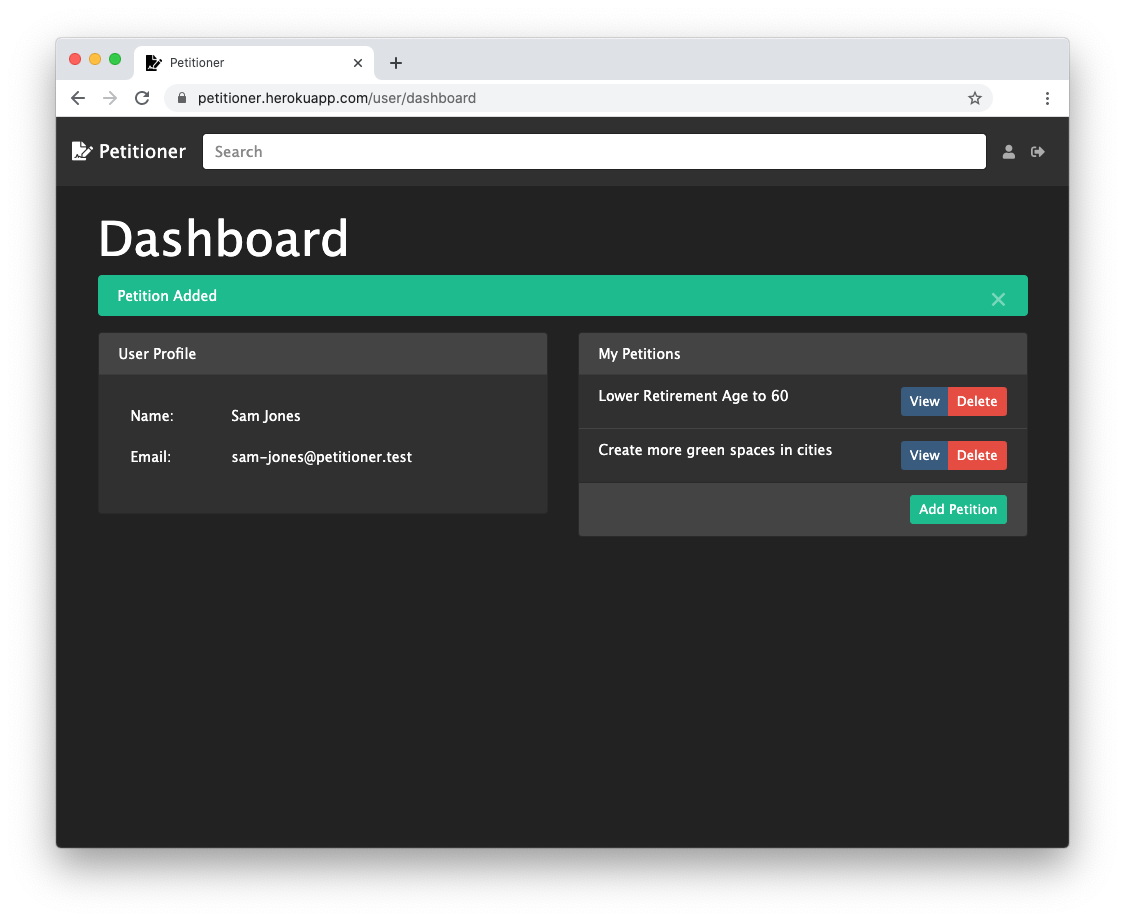
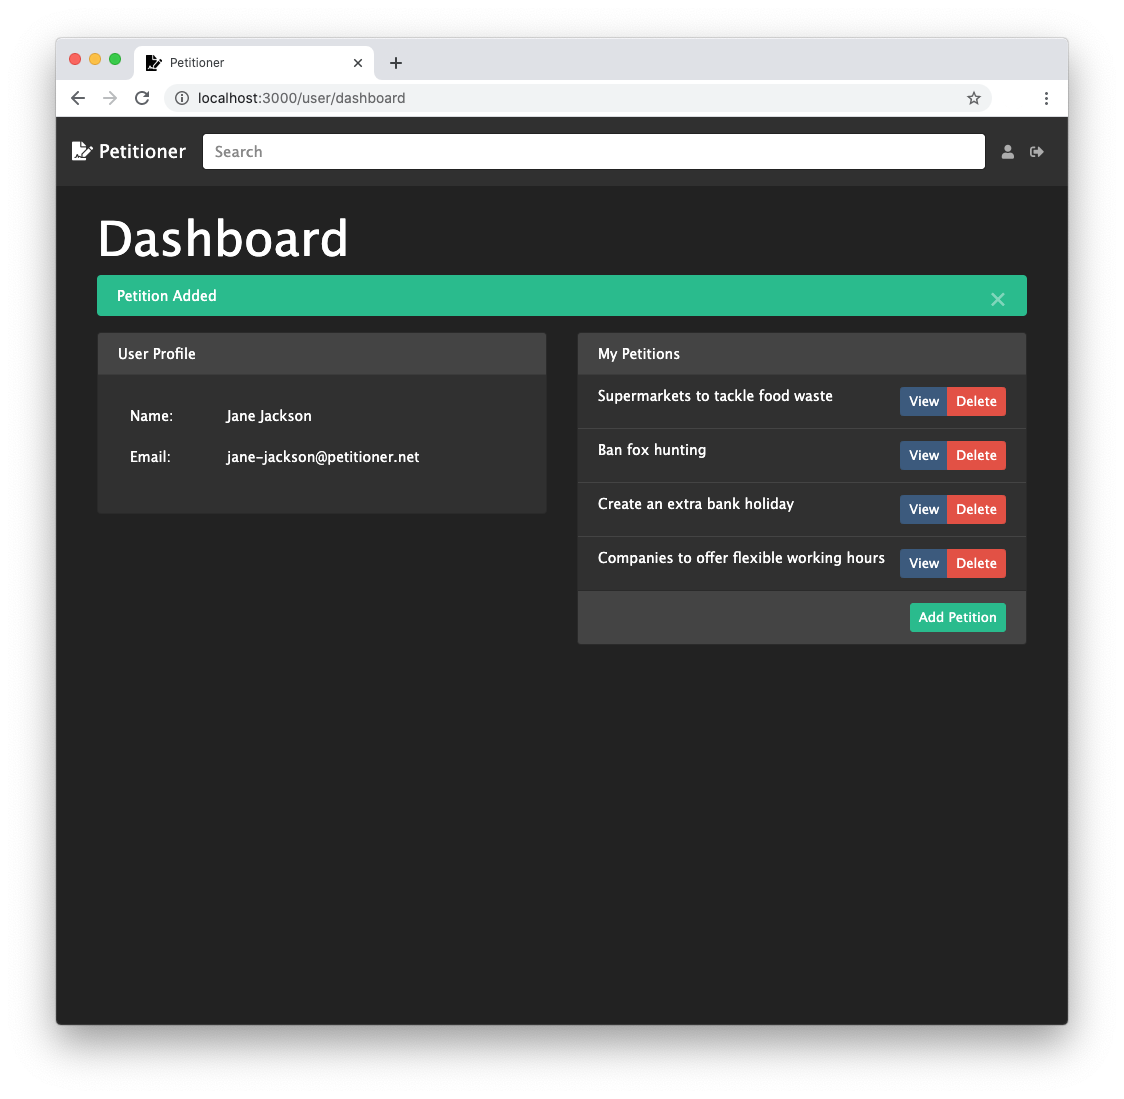
Updated screenshots and added petitioner link to README.md

diff --git a/README.md b/README.md
@@ -1,4 +1,4 @@
-# Petitioner
+# [Petitioner](https://petitioner.herokuapp.com/)
 
 Petition website using [Node.js](https://nodejs.org/), [Express](https://expressjs.com/), [Mongoose](https://mongoosejs.com/), [socket.io](https://socket.io/) and [EJS](https://ejs.co/).
 
